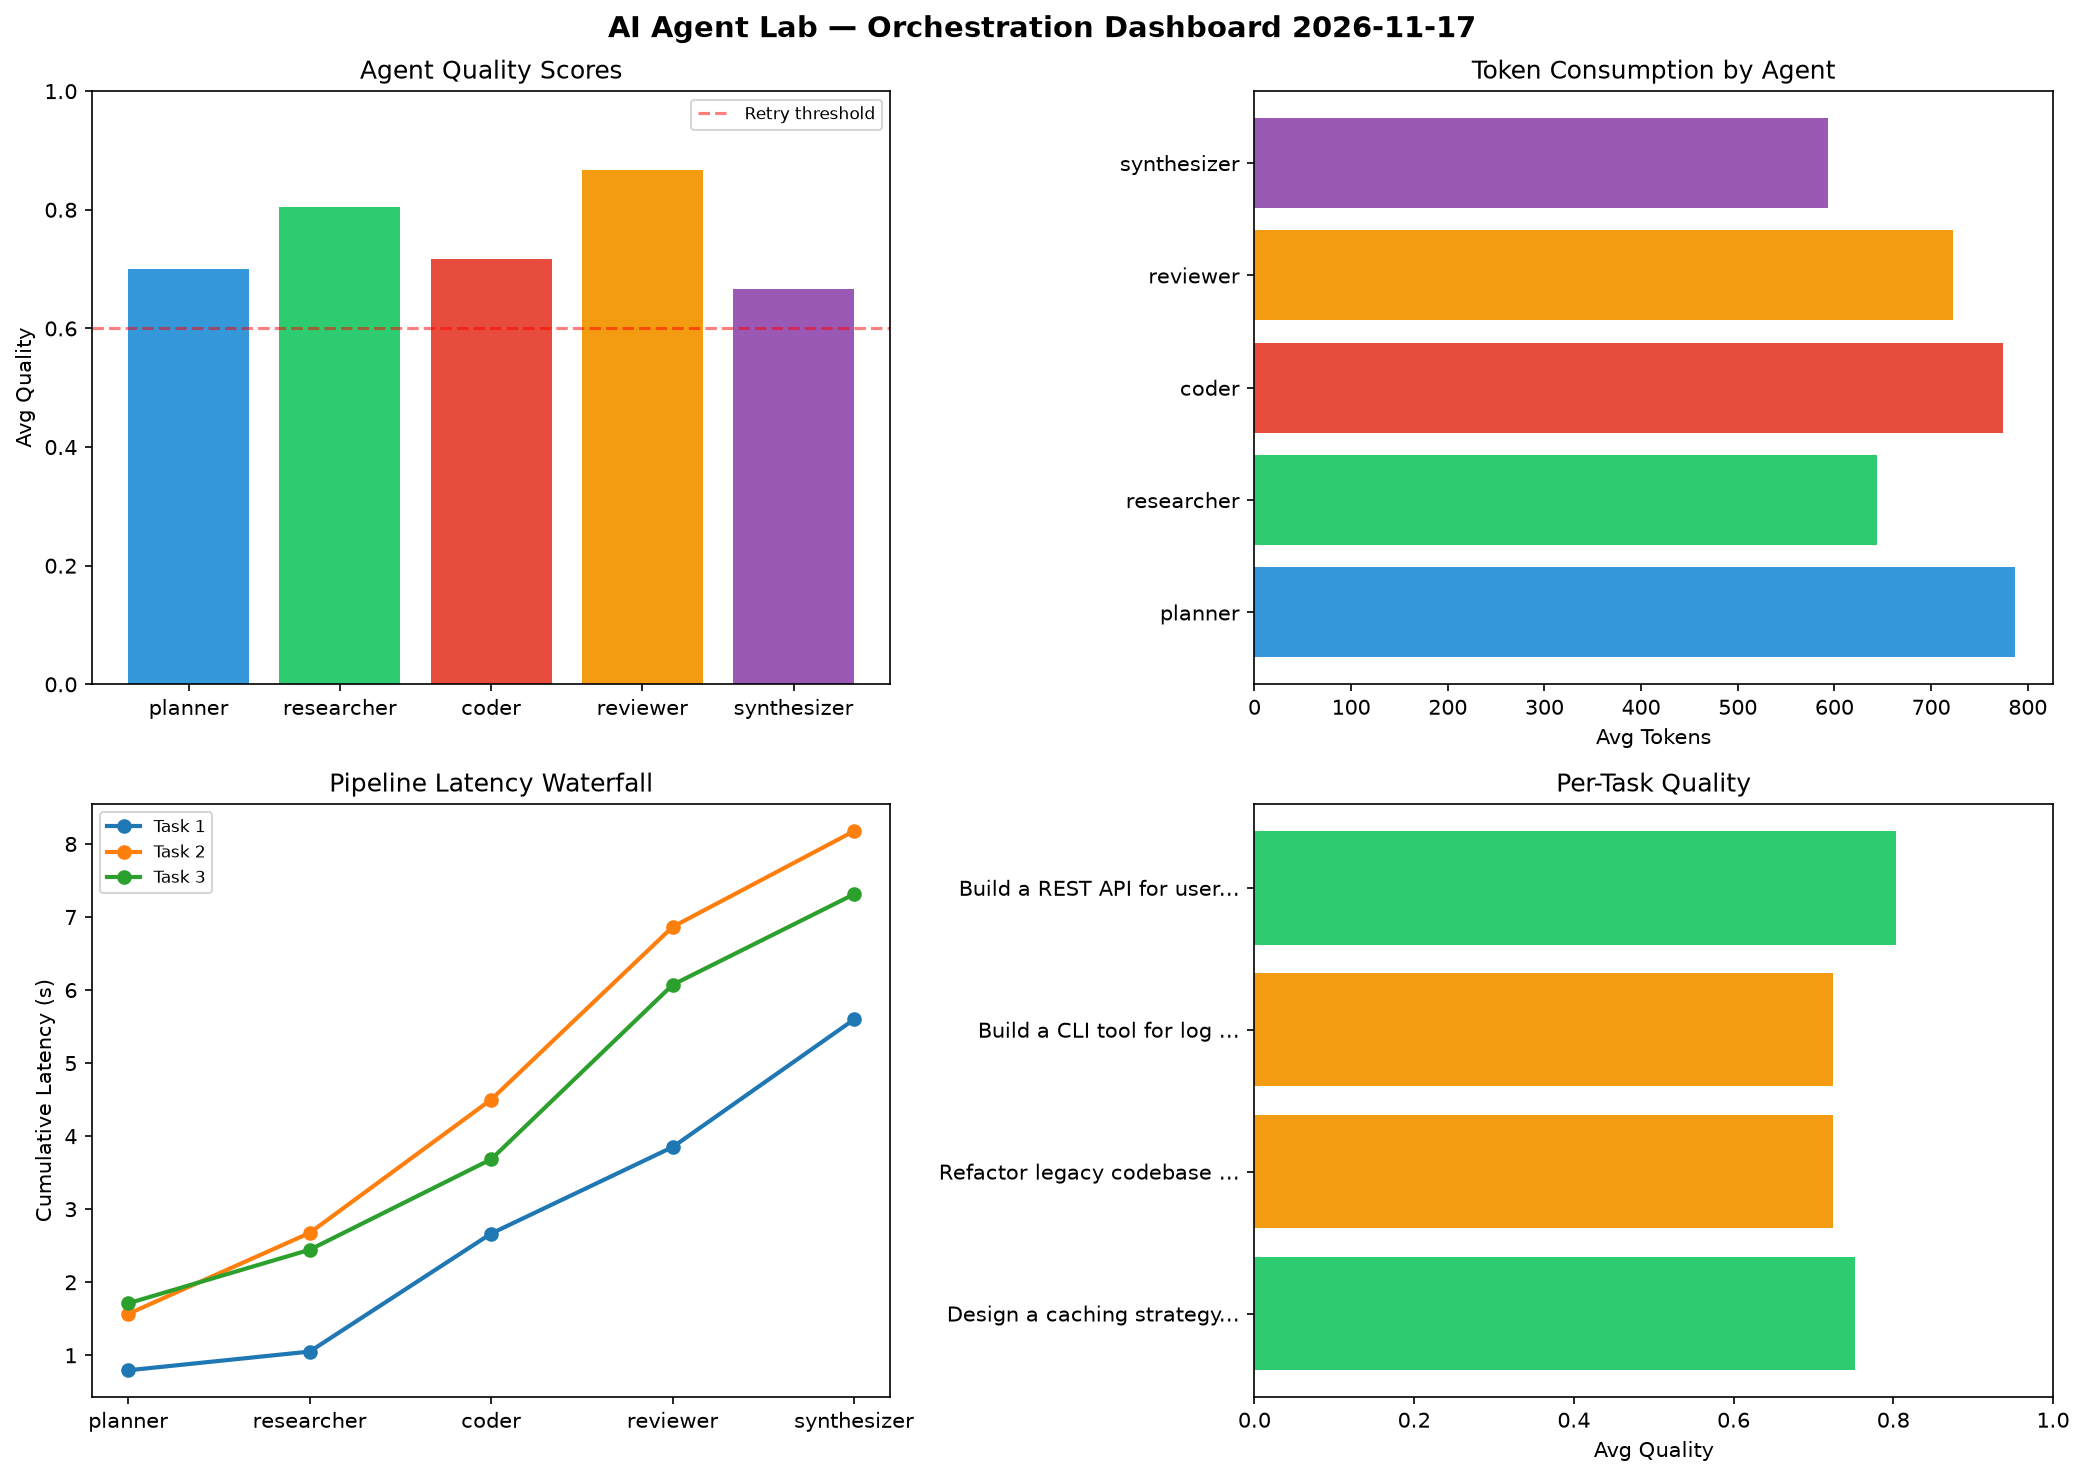
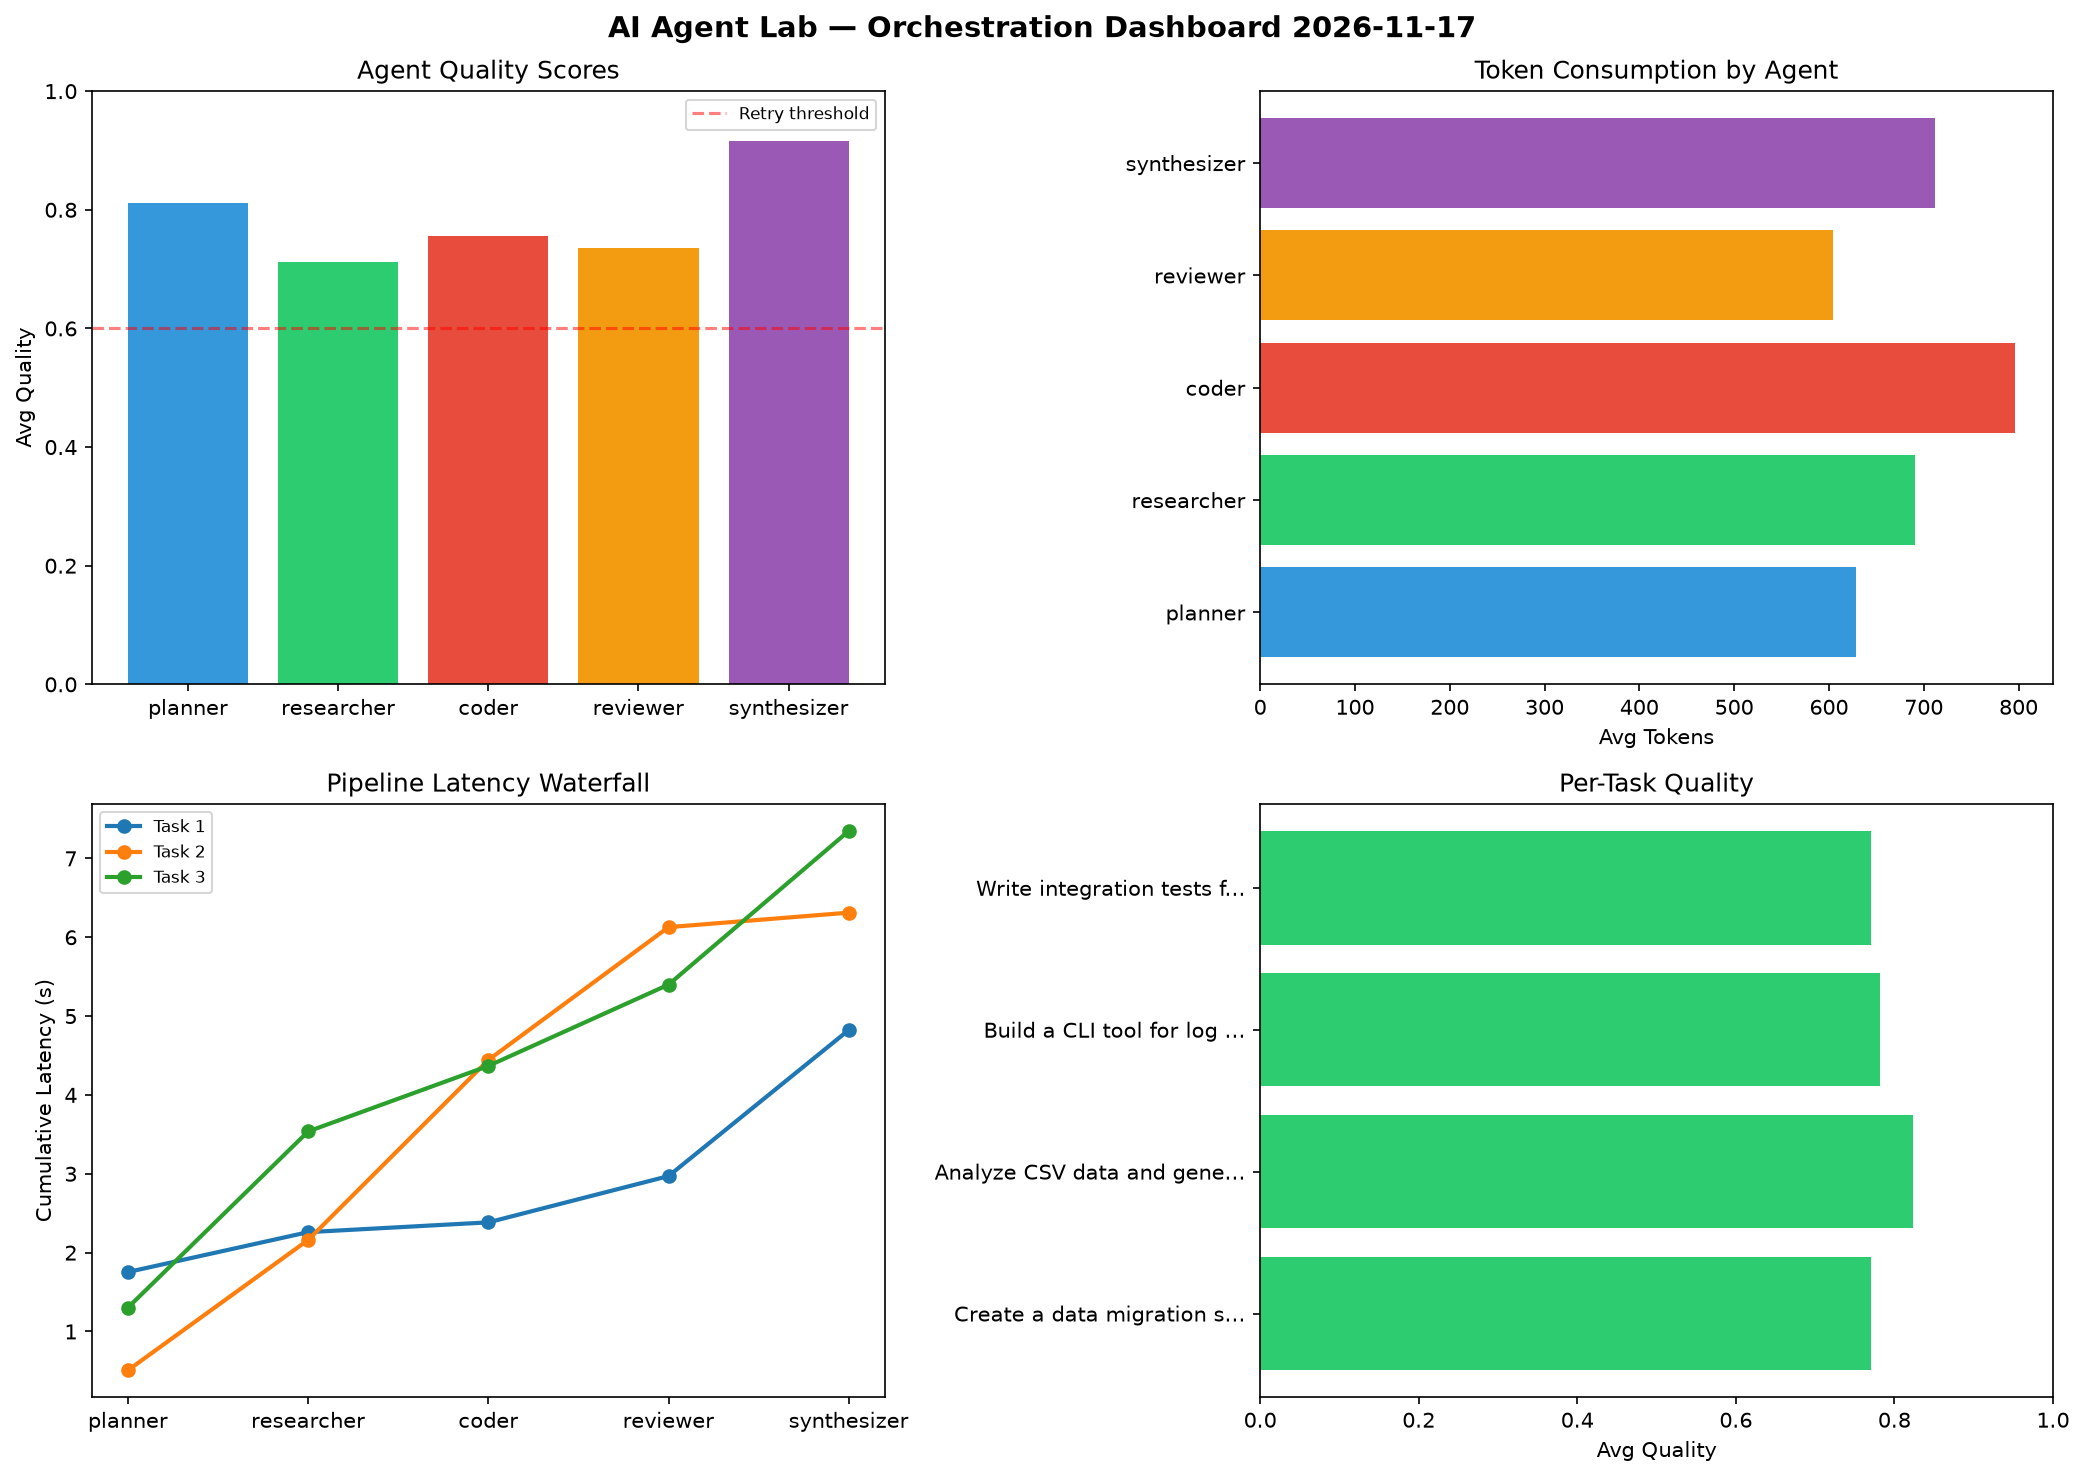
ai-agent-lab: orchestration run 2026-11-17T17:38

diff --git a/logs/2026-11-17.md b/logs/2026-11-17.md
@@ -1,6 +1,6 @@
 # AI Agent Lab — Orchestration Report 2026-11-17
 
-**Run ID:** `508313c6bc` | **Tasks:** 4 | **Avg Quality:** 0.751
+**Run ID:** `26d0ed1239` | **Tasks:** 4 | **Avg Quality:** 0.786
 
 ![Dashboard](2026-11-17_dashboard.png)
 
@@ -8,52 +8,52 @@
 
 | Metric | Value |
 |--------|-------|
-| avg_latency | 6.782 |
-| total_tokens | 14084 |
-| avg_quality | 0.751 |
+| avg_latency | 6.465 |
+| total_tokens | 13732 |
+| avg_quality | 0.786 |
 
 ## Delta vs Yesterday
 
 | Metric | Today | Yesterday | Change |
 |--------|-------|-----------|--------|
-| avg_latency | 6.782 | 7.173 | 📉 -5.5% |
-| total_tokens | 14084 | 13678 | 📈 3.0% |
-| avg_quality | 0.751 | 0.776 | 📉 -3.2% |
+| avg_latency | 6.465 | 7.173 | 📉 -9.9% |
+| total_tokens | 13732 | 13678 | 📈 0.4% |
+| avg_quality | 0.786 | 0.776 | 📈 1.3% |
 
 ## Pipeline Results
 
-### Design a caching strategy for high-traffic endpoints
+### Create a data migration script for schema v2
 | Agent | Quality | Latency | Tokens | Status |
 |-------|---------|---------|--------|--------|
-| planner | 0.67 | 0.795s | 606 | success |
-| researcher | 0.842 | 0.256s | 726 | success |
-| coder | 0.635 | 1.616s | 617 | success |
-| reviewer | 0.819 | 1.184s | 867 | success |
-| synthesizer | 0.795 | 1.748s | 677 | success |
+| planner | 0.884 | 1.754s | 308 | success |
+| researcher | 0.541 | 0.506s | 788 | needs_retry |
+| coder | 0.67 | 0.124s | 553 | success |
+| reviewer | 0.774 | 0.587s | 719 | success |
+| synthesizer | 0.98 | 1.852s | 399 | success |
 
-### Refactor legacy codebase to use dependency injection
+### Analyze CSV data and generate statistical summary
 | Agent | Quality | Latency | Tokens | Status |
 |-------|---------|---------|--------|--------|
-| planner | 0.579 | 1.567s | 834 | needs_retry |
-| researcher | 0.925 | 1.109s | 552 | success |
-| coder | 0.672 | 1.825s | 737 | success |
-| reviewer | 0.819 | 2.364s | 694 | success |
-| synthesizer | 0.63 | 1.312s | 941 | success |
+| planner | 0.605 | 0.508s | 1103 | success |
+| researcher | 0.943 | 1.653s | 961 | success |
+| coder | 0.849 | 2.282s | 859 | success |
+| reviewer | 0.889 | 1.685s | 643 | success |
+| synthesizer | 0.831 | 0.184s | 1027 | success |
 
 ### Build a CLI tool for log analysis
 | Agent | Quality | Latency | Tokens | Status |
 |-------|---------|---------|--------|--------|
-| planner | 0.812 | 1.712s | 783 | success |
-| researcher | 0.522 | 0.733s | 810 | needs_retry |
-| coder | 0.786 | 1.239s | 636 | success |
-| reviewer | 0.908 | 2.388s | 867 | success |
-| synthesizer | 0.59 | 1.241s | 390 | needs_retry |
+| planner | 0.808 | 1.303s | 548 | success |
+| researcher | 0.701 | 2.234s | 555 | success |
+| coder | 0.844 | 0.831s | 1001 | success |
+| reviewer | 0.563 | 1.031s | 477 | needs_retry |
+| synthesizer | 0.993 | 1.948s | 920 | success |
 
-### Build a REST API for user authentication
+### Write integration tests for payment processing module
 | Agent | Quality | Latency | Tokens | Status |
 |-------|---------|---------|--------|--------|
-| planner | 0.74 | 1.772s | 924 | success |
-| researcher | 0.929 | 0.756s | 488 | success |
-| coder | 0.776 | 1.018s | 1106 | success |
-| reviewer | 0.92 | 1.075s | 463 | success |
-| synthesizer | 0.649 | 1.42s | 366 | success |
+| planner | 0.949 | 0.515s | 555 | success |
+| researcher | 0.665 | 2.404s | 461 | success |
+| coder | 0.661 | 2.228s | 773 | success |
+| reviewer | 0.719 | 1.63s | 579 | success |
+| synthesizer | 0.859 | 0.6s | 503 | success |
